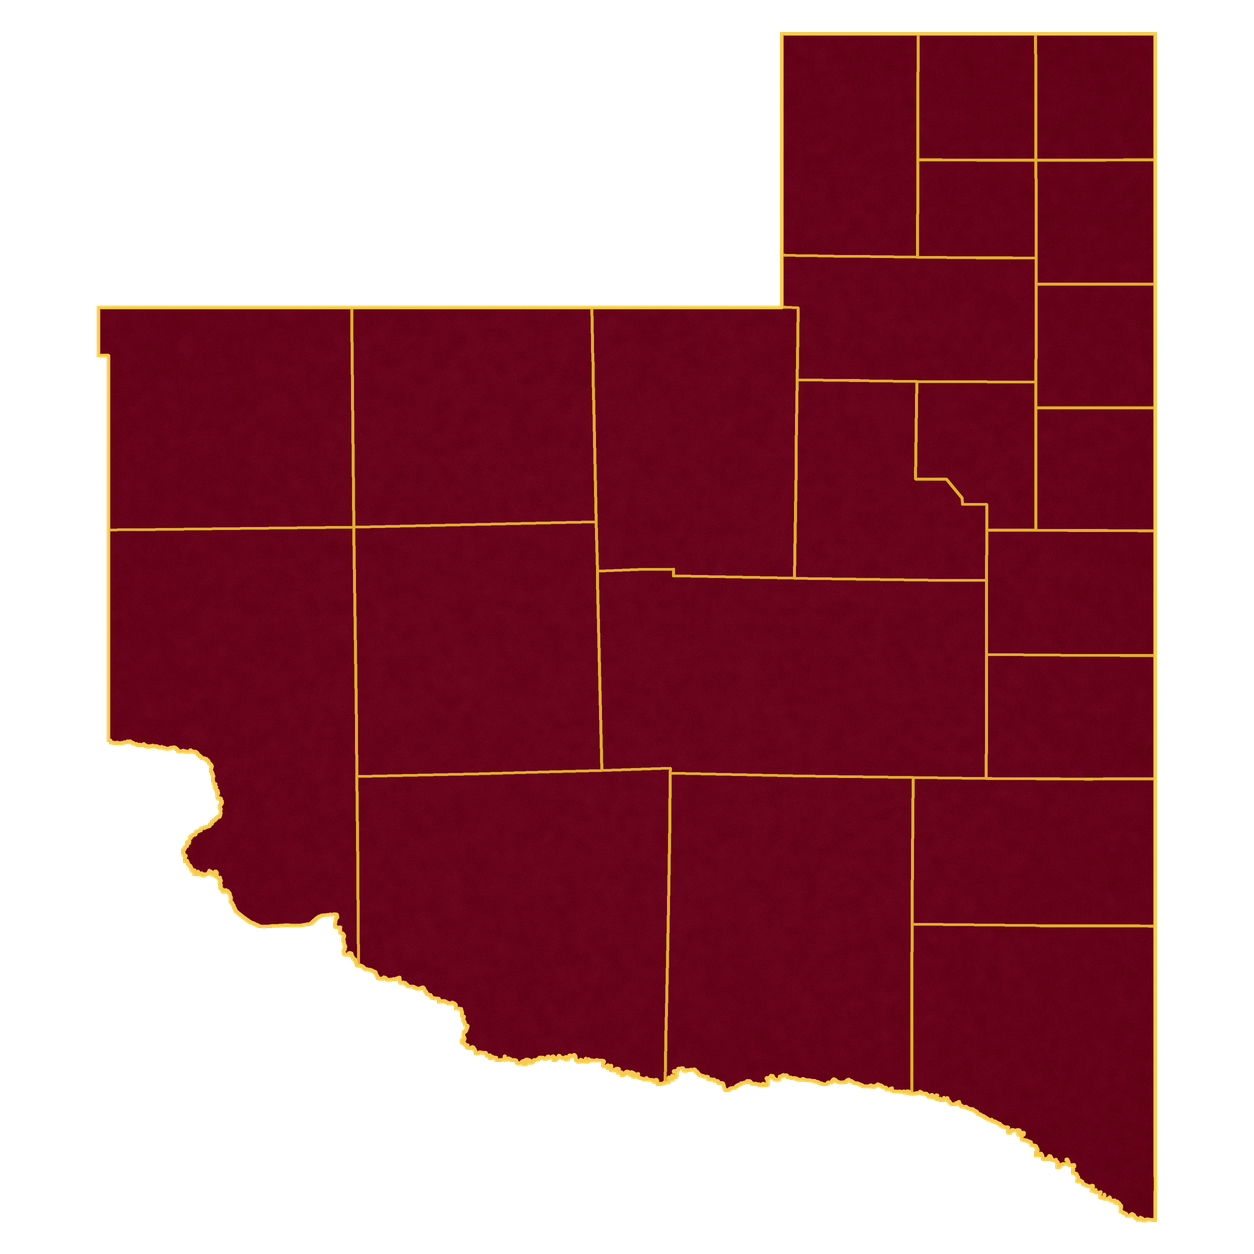
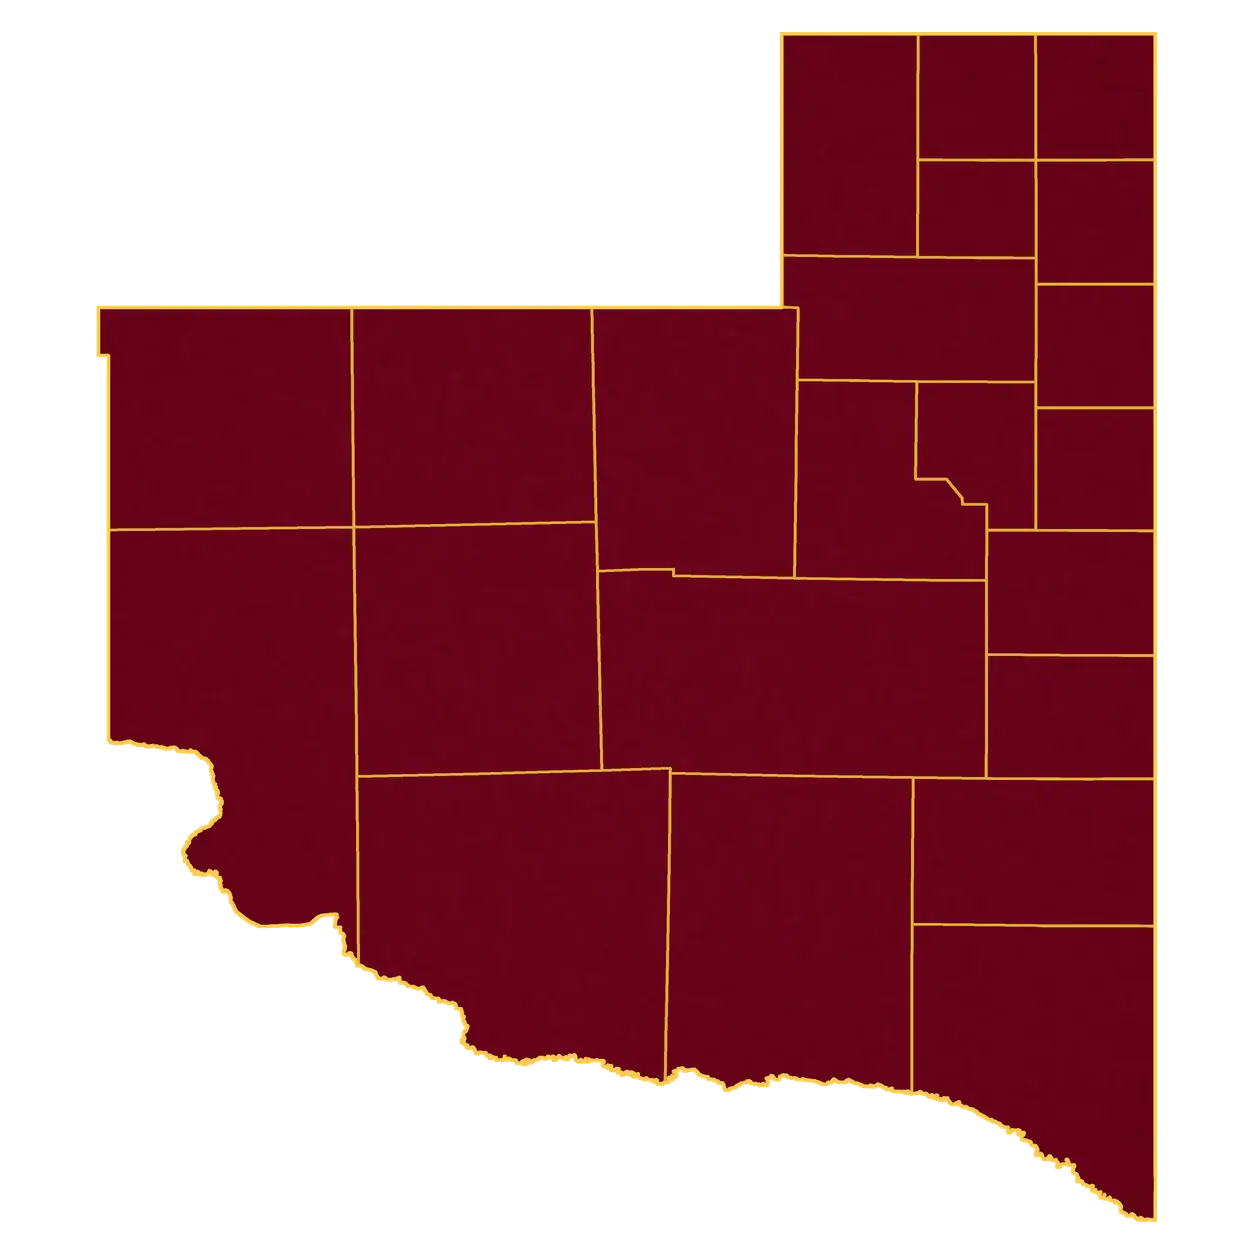
Optimizar assets de la Ruta Patagónica

diff --git a/scripts/generate_patagonia_maps.py b/scripts/generate_patagonia_maps.py
@@ -124,7 +124,7 @@ def render(slug: str, source: Path, output: Path) -> None:
     result.alpha_composite(border_layer)
 
     result = result.resize((SIZE, SIZE), Image.Resampling.LANCZOS)
-    result.save(output, "WEBP", lossless=True, method=6)
+    result.save(output, "WEBP", lossless=False, quality=82, method=6)
     print(f"{slug}: {output}")
 
 
